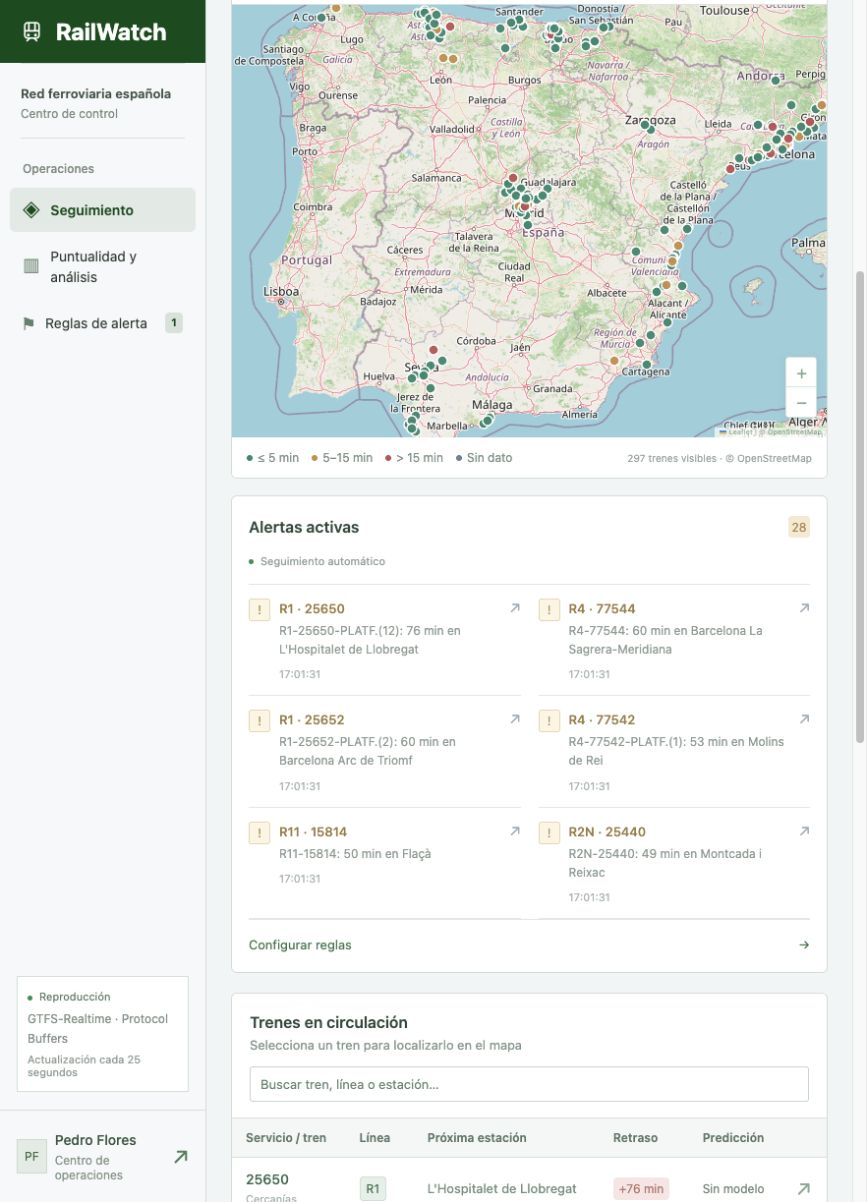
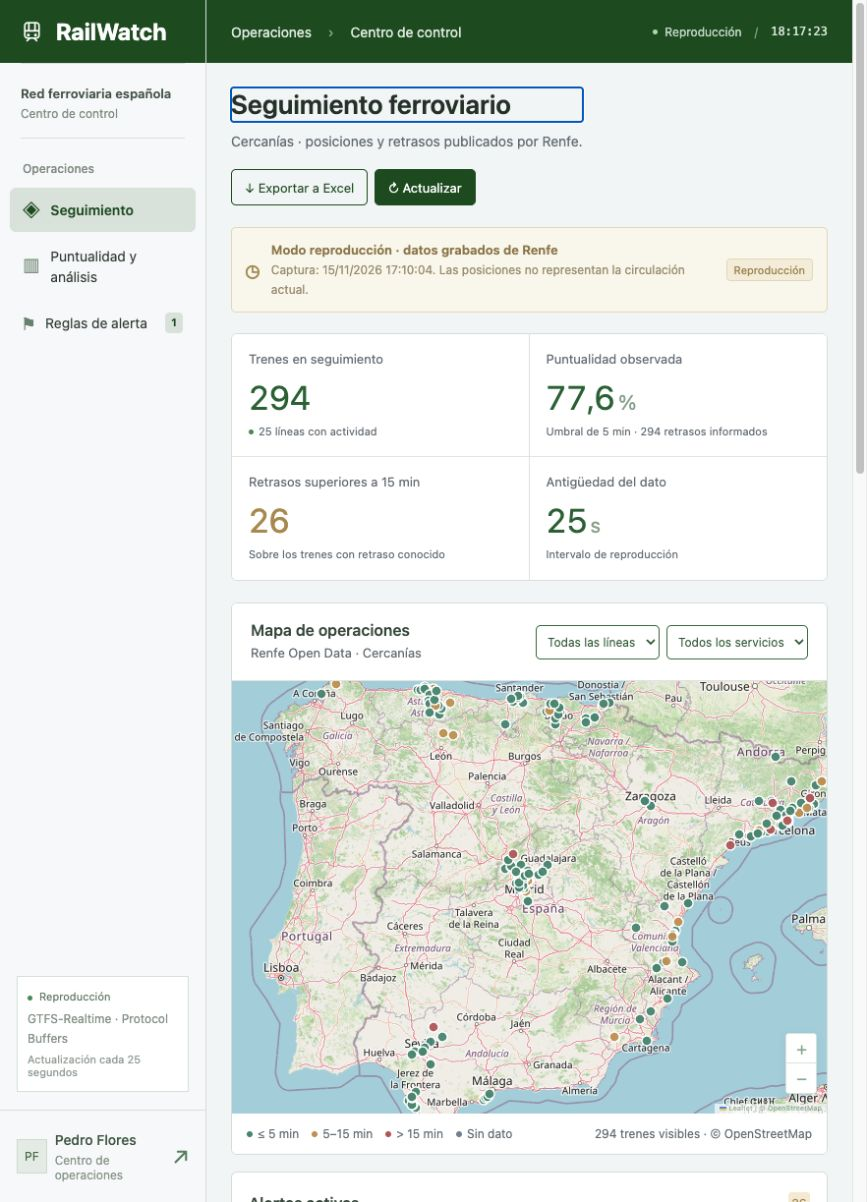
Verificar el gráfico diario, la reconexión y la captura de WPF

diff --git a/src/RailWatch.Desktop.Wpf/MainWindow.xaml b/src/RailWatch.Desktop.Wpf/MainWindow.xaml
@@ -1,17 +1,17 @@
-<Window x:Class="RailWatch.Desktop.Wpf.MainWindow" xmlns="http://schemas.microsoft.com/winfx/2006/xaml/presentation" xmlns:x="http://schemas.microsoft.com/winfx/2006/xaml" Title="RailWatch · Centro de control" Width="1360" Height="850" MinWidth="1050" MinHeight="650" Background="#F4F7F9" FontFamily="Segoe UI" Foreground="#294357" WindowStartupLocation="CenterScreen">
+<Window x:Class="RailWatch.Desktop.Wpf.MainWindow" xmlns="http://schemas.microsoft.com/winfx/2006/xaml/presentation" xmlns:x="http://schemas.microsoft.com/winfx/2006/xaml" Title="RailWatch · Centro de control" Width="1360" Height="850" MinWidth="1050" MinHeight="650" Background="#F4F7F9" FontFamily="Segoe UI" FontSize="14" Foreground="#294357" WindowStartupLocation="CenterScreen">
     <Grid><Grid.ColumnDefinitions><ColumnDefinition Width="225"/><ColumnDefinition Width="*"/></Grid.ColumnDefinitions>
-        <Border Background="#17541F"><DockPanel Margin="23,30"><StackPanel DockPanel.Dock="Top"><TextBlock Text="≋ RailWatch" FontFamily="Segoe UI" FontSize="26" Foreground="White"/><TextBlock Text="Control ferroviario" Foreground="#91A7B8" FontSize="9" Margin="4,10,0,40"/><TextBlock Text="Centro de control" FontSize="9" Foreground="#BCA275"/><TextBlock Text="Red ferroviaria española" Foreground="#D3DFE8" FontSize="13" Margin="0,12,0,7"/><TextBlock Text="Seguimiento de operaciones" Foreground="#819CAE" FontSize="11"/></StackPanel><StackPanel VerticalAlignment="Bottom"><TextBlock Text="Pedro Flores" Foreground="White" FontSize="12"/><TextBlock Text="C# / .NET · WPF / MVVM" Foreground="#7C98AC" FontSize="10" Margin="0,7,0,0"/></StackPanel></DockPanel></Border>
+        <Border Background="#17541F"><DockPanel Margin="23,30"><StackPanel DockPanel.Dock="Top"><TextBlock Text="≋ RailWatch" FontFamily="Segoe UI" FontSize="26" Foreground="White"/><TextBlock Text="Control ferroviario" Foreground="#91A7B8" FontSize="11" Margin="4,10,0,40"/><TextBlock Text="Centro de control" FontSize="11" Foreground="#BCA275"/><TextBlock Text="Red ferroviaria española" Foreground="#D3DFE8" FontSize="13" Margin="0,12,0,7"/><TextBlock Text="Seguimiento de operaciones" Foreground="#819CAE" FontSize="13"/></StackPanel><StackPanel VerticalAlignment="Bottom"><TextBlock Text="Pedro Flores" Foreground="White" FontSize="12"/><TextBlock Text="C# / .NET · WPF / MVVM" Foreground="#7C98AC" FontSize="12" Margin="0,7,0,0"/></StackPanel></DockPanel></Border>
         <Grid Grid.Column="1" Margin="30,25"><Grid.RowDefinitions><RowDefinition Height="Auto"/><RowDefinition Height="Auto"/><RowDefinition Height="*"/><RowDefinition Height="Auto"/></Grid.RowDefinitions>
-            <Grid><Grid.ColumnDefinitions><ColumnDefinition/><ColumnDefinition Width="Auto"/></Grid.ColumnDefinitions><StackPanel><TextBlock Text="Red de Cercanías" Foreground="#AA9169" FontSize="10"/><TextBlock Text="Centro de control ferroviario" FontFamily="Segoe UI" FontSize="26" Margin="0,13,0,10"/><TextBlock Text="{Binding Status}" FontSize="11" Foreground="#8B9EAD"/></StackPanel><Button Grid.Column="1" Content="Exportar a Excel" VerticalAlignment="Center" Click="Export_Click"/></Grid>
+            <Grid><Grid.ColumnDefinitions><ColumnDefinition/><ColumnDefinition Width="Auto"/></Grid.ColumnDefinitions><StackPanel><TextBlock Text="Red de Cercanías" Foreground="#AA9169" FontSize="12"/><TextBlock Text="Centro de control ferroviario" FontFamily="Segoe UI" FontSize="26" Margin="0,13,0,10"/><TextBlock Text="{Binding Status}" FontSize="13" Foreground="#8B9EAD"/></StackPanel><Button Grid.Column="1" Content="Exportar a Excel" VerticalAlignment="Center" Click="Export_Click"/></Grid>
             <Grid Grid.Row="1" Margin="0,25,0,25"><Grid.ColumnDefinitions><ColumnDefinition/><ColumnDefinition/><ColumnDefinition/></Grid.ColumnDefinitions>
-                <Border Background="White" BorderBrush="#DFE7ED" BorderThickness="1" Padding="20" Margin="0,0,15,0"><StackPanel><TextBlock Text="Trenes en seguimiento" FontSize="11" Foreground="#94A5B3"/><TextBlock Text="{Binding TrainCount}" FontSize="35" Margin="0,10,0,0"/></StackPanel></Border>
-                <Border Grid.Column="1" Background="White" BorderBrush="#DFE7ED" BorderThickness="1" Padding="20" Margin="0,0,15,0"><StackPanel><TextBlock Text="Puntualidad observada (≤ 5 min)" FontSize="11" Foreground="#94A5B3"/><TextBlock Text="{Binding Punctuality, TargetNullValue=Sin datos, StringFormat={}{0:0.0}%}" FontSize="35" Margin="0,10,0,0" Foreground="#618D78"/></StackPanel></Border>
-                <Border Grid.Column="2" Background="White" BorderBrush="#DFE7ED" BorderThickness="1" Padding="20"><StackPanel><TextBlock Text="Alertas de retraso" FontSize="11" Foreground="#94A5B3"/><TextBlock Text="{Binding Alerts.Count}" FontSize="35" Margin="0,10,0,0" Foreground="#B49762"/></StackPanel></Border>
+                <Border Background="White" BorderBrush="#DFE7ED" BorderThickness="1" Padding="20" Margin="0,0,15,0"><StackPanel><TextBlock Text="Trenes en seguimiento" FontSize="13" Foreground="#94A5B3"/><TextBlock Text="{Binding TrainCount}" FontSize="35" Margin="0,10,0,0"/></StackPanel></Border>
+                <Border Grid.Column="1" Background="White" BorderBrush="#DFE7ED" BorderThickness="1" Padding="20" Margin="0,0,15,0"><StackPanel><TextBlock Text="Puntualidad observada (≤ 5 min)" FontSize="13" Foreground="#94A5B3"/><TextBlock Text="{Binding Punctuality, TargetNullValue=Sin datos, StringFormat={}{0:0.0}%}" FontSize="35" Margin="0,10,0,0" Foreground="#618D78"/></StackPanel></Border>
+                <Border Grid.Column="2" Background="White" BorderBrush="#DFE7ED" BorderThickness="1" Padding="20"><StackPanel><TextBlock Text="Alertas de retraso" FontSize="13" Foreground="#94A5B3"/><TextBlock Text="{Binding Alerts.Count}" FontSize="35" Margin="0,10,0,0" Foreground="#B49762"/></StackPanel></Border>
             </Grid>
-            <Grid Grid.Row="2"><Grid.ColumnDefinitions><ColumnDefinition Width="3*"/><ColumnDefinition Width="20"/><ColumnDefinition Width="1.25*"/></Grid.ColumnDefinitions><Grid><Grid.RowDefinitions><RowDefinition Height="Auto"/><RowDefinition Height="*"/><RowDefinition Height="Auto"/></Grid.RowDefinitions><DockPanel Margin="0,0,0,15"><TextBlock Text="Trenes en circulación" FontSize="17" VerticalAlignment="Center"/><TextBox Text="{Binding Filter, UpdateSourceTrigger=PropertyChanged}" Width="230" Padding="9" HorizontalAlignment="Right" ToolTip="Buscar tren, línea o estación"/></DockPanel><DataGrid Grid.Row="1" ItemsSource="{Binding Trains}"><DataGrid.Columns><DataGridTextColumn Header="Tren" Binding="{Binding Id}" Width="80"/><DataGridTextColumn Header="Línea" Binding="{Binding Line}" Width="65"/><DataGridTextColumn Header="Próxima estación" Binding="{Binding NextStop}" Width="*"/><DataGridTextColumn Header="Retraso (s)" Binding="{Binding DelaySeconds, TargetNullValue=Sin dato}" Width="85"/><DataGridTextColumn Header="Predicción (min)" Binding="{Binding PredictedDelayMinutes, StringFormat=0.0, TargetNullValue=Sin modelo}" Width="105"/></DataGrid.Columns></DataGrid><TextBlock Grid.Row="2" Text="Sin dato indica que el proveedor no informa del retraso. Replay identifica una grabación, no circulación actual." Foreground="#96A8B6" FontSize="10" TextWrapping="Wrap" Margin="0,12,0,0"/></Grid>
-                <Grid Grid.Column="2"><Grid.RowDefinitions><RowDefinition Height="Auto"/><RowDefinition Height="*"/><RowDefinition Height="Auto"/></Grid.RowDefinitions><DockPanel Margin="0,0,0,15"><TextBlock Text="Alertas en directo" FontSize="17"/><CheckBox Content="Sonido" IsChecked="{Binding SoundEnabled}" HorizontalAlignment="Right" VerticalAlignment="Center" FontSize="10"/></DockPanel><ListBox Grid.Row="1" ItemsSource="{Binding Alerts}" BorderBrush="#DFE7ED" Background="White" ScrollViewer.HorizontalScrollBarVisibility="Disabled"><ListBox.ItemTemplate><DataTemplate><Border BorderBrush="#EDF1F3" BorderThickness="0,0,0,1" Padding="10,14"><StackPanel><TextBlock Text="{Binding Line}" Foreground="#B69661" FontWeight="SemiBold"/><TextBlock Text="{Binding Message}" FontSize="11" TextWrapping="Wrap" Margin="0,7,0,0"/><TextBlock Text="{Binding At, StringFormat=HH:mm:ss}" FontSize="9" Foreground="#A6B5BF" Margin="0,7,0,0"/></StackPanel></Border></DataTemplate></ListBox.ItemTemplate></ListBox><StackPanel Grid.Row="2" Margin="0,20,0,0"><TextBlock Text="Puntualidad por línea" FontSize="14" Margin="0,0,0,10"/><ItemsControl ItemsSource="{Binding Lines}"><ItemsControl.ItemTemplate><DataTemplate><Grid Margin="0,4"><Grid.ColumnDefinitions><ColumnDefinition Width="45"/><ColumnDefinition/><ColumnDefinition Width="50"/></Grid.ColumnDefinitions><TextBlock Text="{Binding Line}" FontSize="10"/><ProgressBar Grid.Column="1" Value="{Binding Punctuality}" Maximum="100" Height="7" Foreground="#78A28C" Background="#E7EDF1"/><TextBlock Grid.Column="2" Text="{Binding Punctuality, StringFormat={}{0:0}%}" HorizontalAlignment="Right" FontSize="10"/></Grid></DataTemplate></ItemsControl.ItemTemplate></ItemsControl></StackPanel></Grid>
+            <Grid Grid.Row="2"><Grid.ColumnDefinitions><ColumnDefinition Width="3*"/><ColumnDefinition Width="20"/><ColumnDefinition Width="1.25*"/></Grid.ColumnDefinitions><Grid><Grid.RowDefinitions><RowDefinition Height="Auto"/><RowDefinition Height="*"/><RowDefinition Height="Auto"/></Grid.RowDefinitions><DockPanel Margin="0,0,0,15"><TextBlock Text="Trenes en circulación" FontSize="17" VerticalAlignment="Center"/><TextBox Text="{Binding Filter, UpdateSourceTrigger=PropertyChanged}" Width="230" Padding="9" HorizontalAlignment="Right" ToolTip="Buscar tren, línea o estación"/></DockPanel><DataGrid Grid.Row="1" ItemsSource="{Binding Trains}"><DataGrid.Columns><DataGridTextColumn Header="Tren" Binding="{Binding Id}" Width="80"/><DataGridTextColumn Header="Línea" Binding="{Binding Line}" Width="65"/><DataGridTextColumn Header="Próxima estación" Binding="{Binding NextStop}" Width="*"/><DataGridTextColumn Header="Retraso (s)" Binding="{Binding DelaySeconds, TargetNullValue=Sin dato}" Width="85"/><DataGridTextColumn Header="Predicción (min)" Binding="{Binding PredictedDelayMinutes, StringFormat=0.0, TargetNullValue=Sin modelo}" Width="105"/></DataGrid.Columns></DataGrid><TextBlock Grid.Row="2" Text="Sin dato indica que el proveedor no informa del retraso. Replay identifica una grabación, no circulación actual." Foreground="#96A8B6" FontSize="12" TextWrapping="Wrap" Margin="0,12,0,0"/></Grid>
+                <Grid Grid.Column="2"><Grid.RowDefinitions><RowDefinition Height="Auto"/><RowDefinition Height="*"/><RowDefinition Height="Auto"/></Grid.RowDefinitions><DockPanel Margin="0,0,0,15"><TextBlock Text="Alertas en directo" FontSize="17"/><CheckBox Content="Sonido" IsChecked="{Binding SoundEnabled}" HorizontalAlignment="Right" VerticalAlignment="Center" FontSize="12"/></DockPanel><ListBox Grid.Row="1" ItemsSource="{Binding Alerts}" BorderBrush="#DFE7ED" Background="White" ScrollViewer.HorizontalScrollBarVisibility="Disabled"><ListBox.ItemTemplate><DataTemplate><Border BorderBrush="#EDF1F3" BorderThickness="0,0,0,1" Padding="10,14"><StackPanel><TextBlock Text="{Binding Line}" Foreground="#B69661" FontWeight="SemiBold"/><TextBlock Text="{Binding Message}" FontSize="13" TextWrapping="Wrap" Margin="0,7,0,0"/><TextBlock Text="{Binding At, StringFormat=HH:mm:ss}" FontSize="11" Foreground="#A6B5BF" Margin="0,7,0,0"/></StackPanel></Border></DataTemplate></ListBox.ItemTemplate></ListBox><StackPanel Grid.Row="2" Margin="0,20,0,0"><TextBlock Text="Puntualidad del día · seis líneas" FontSize="14" Margin="0,0,0,10"/><ItemsControl ItemsSource="{Binding Lines}"><ItemsControl.ItemTemplate><DataTemplate><Grid Margin="0,4"><Grid.ColumnDefinitions><ColumnDefinition Width="45"/><ColumnDefinition/><ColumnDefinition Width="50"/></Grid.ColumnDefinitions><TextBlock Text="{Binding Line}" FontSize="12"/><ProgressBar Grid.Column="1" Value="{Binding Punctuality}" Maximum="100" Height="7" Foreground="#78A28C" Background="#E7EDF1"/><TextBlock Grid.Column="2" Text="{Binding Punctuality, StringFormat={}{0:0}%}" HorizontalAlignment="Right" FontSize="12"/></Grid></DataTemplate></ItemsControl.ItemTemplate></ItemsControl></StackPanel></Grid>
             </Grid>
-            <TextBlock Grid.Row="3" Text="Datos: Renfe Open Data · CC BY 4.0 / RailWatch · Centro de operaciones" Foreground="#A4B2BD" FontSize="10" Margin="0,25,0,0"/>
+            <TextBlock Grid.Row="3" Text="Datos: Renfe Open Data · CC BY 4.0 / RailWatch · Centro de operaciones" Foreground="#A4B2BD" FontSize="12" Margin="0,25,0,0"/>
         </Grid>
     </Grid>
 </Window>

diff --git a/src/RailWatch.Api/wwwroot/railwatch.css b/src/RailWatch.Api/wwwroot/railwatch.css
@@ -2258,3 +2258,9 @@ td,
 th {
   color: #495057;
 }
+
+h1:focus { outline: none; }
+
+.alerts-panel { max-height: 590px; overflow-y: auto; }
+.alerts-panel > .section-top, .alerts-subtitle, .alert-card, .rules-link { flex-shrink: 0; }
+@media (max-width: 1000px) { .alerts-panel { max-height: none; overflow-y: visible; } }

diff --git a/src/RailWatch.Desktop.Wpf/DesktopFeedClient.cs b/src/RailWatch.Desktop.Wpf/DesktopFeedClient.cs
@@ -9,6 +9,7 @@ namespace RailWatch.Desktop.Wpf;
 public sealed class DesktopFeedClient(ControlRoomViewModel model) : IAsyncDisposable
 {
     private HubConnection? connection;
+    private int disposed;
     private readonly HttpClient http = new() { BaseAddress = new Uri(Environment.GetEnvironmentVariable("RAILWATCH_URL") ?? "http://localhost:5090") };
     public async Task ConnectAsync()
     {
@@ -23,8 +24,19 @@ public sealed class DesktopFeedClient(ControlRoomViewModel model) : IAsyncDispos
     }
     private async Task ReloadAsync()
     {
-        var s = await http.GetFromJsonAsync<FeedSnapshot>("/api/snapshot"); if (s is not null) model.Apply(s);
-        var lines = await http.GetFromJsonAsync<LineStats[]>("/api/statistics/lines"); model.Lines.Clear(); foreach (var l in lines ?? []) model.Lines.Add(l);
+        var snapshot = await http.GetFromJsonAsync<FeedSnapshot>("/api/snapshot");
+        if (snapshot is null) return;
+        var date = DateOnly.FromDateTime(TimeZoneInfo.ConvertTime(snapshot.ObservedAt, TimeZoneInfo.FindSystemTimeZoneById("Europe/Madrid")).DateTime);
+        var from = DelayCalculator.ScheduledUtc(date, "00:00:00");
+        var to = DelayCalculator.ScheduledUtc(date.AddDays(1), "00:00:00");
+        var query = "/api/statistics/lines?mode=" + Uri.EscapeDataString(snapshot.Mode) + "&from=" + Uri.EscapeDataString(from.ToString("O")) + "&to=" + Uri.EscapeDataString(to.ToString("O"));
+        var lines = await http.GetFromJsonAsync<LineStats[]>(query);
+        await Application.Current.Dispatcher.InvokeAsync(() =>
+        {
+            model.Apply(snapshot);
+            model.Lines.Clear();
+            foreach (var line in (lines ?? []).OrderBy(x => x.Punctuality).Take(6)) model.Lines.Add(line);
+        });
     }
-    public async ValueTask DisposeAsync() { if (connection is not null) await connection.DisposeAsync(); http.Dispose(); }
+    public async ValueTask DisposeAsync() { if (Interlocked.Exchange(ref disposed, 1) != 0) return; if (connection is not null) await connection.DisposeAsync(); http.Dispose(); }
 }

diff --git a/src/RailWatch.Desktop.Wpf/MainWindow.xaml.cs b/src/RailWatch.Desktop.Wpf/MainWindow.xaml.cs
@@ -23,10 +23,10 @@ public partial class MainWindow : Window
         if (dialog.ShowDialog() != true) return;
         try
         {
-            using var book = new XLWorkbook(); var sheet = book.AddWorksheet("Control"); string[] headers = ["Tren", "Línea", "Estación", "Retraso (segundos)", "Fecha del dato UTC", "Predicción (min)"];
+            using var book = new XLWorkbook(); var sheet = book.AddWorksheet("Control"); string[] headers = ["Tren", "Línea", "Estación", "Retraso (segundos)", "Fecha del dato UTC", "Predicción (min)", "Fuente"];
             for (var c = 0; c < headers.Length; c++) sheet.Cell(1, c + 1).Value = headers[c];
-            var row = 2; foreach (var t in model.Trains) { sheet.Cell(row, 1).Value = t.Id; sheet.Cell(row, 2).Value = t.Line; sheet.Cell(row, 3).Value = t.NextStop; if (t.DelaySeconds.HasValue) sheet.Cell(row, 4).Value = t.DelaySeconds.Value; sheet.Cell(row, 5).Value = t.ObservedAt.UtcDateTime; if (t.PredictedDelayMinutes.HasValue) sheet.Cell(row, 6).Value = t.PredictedDelayMinutes.Value; row++; }
-            sheet.Range(1, 1, Math.Max(2, row - 1), 6).CreateTable(); sheet.Columns().AdjustToContents(); sheet.Column(5).Style.DateFormat.Format = "yyyy-mm-dd hh:mm:ss"; book.SaveAs(dialog.FileName);
+            var row = 2; foreach (var t in model.Trains) { sheet.Cell(row, 1).Value = t.Id; sheet.Cell(row, 2).Value = t.Line; sheet.Cell(row, 3).Value = t.NextStop; if (t.DelaySeconds.HasValue) sheet.Cell(row, 4).Value = t.DelaySeconds.Value; sheet.Cell(row, 5).Value = t.ObservedAt.UtcDateTime; if (t.PredictedDelayMinutes.HasValue) sheet.Cell(row, 6).Value = t.PredictedDelayMinutes.Value; sheet.Cell(row, 7).Value = model.SourceMode; row++; }
+            sheet.Range(1, 1, Math.Max(2, row - 1), 7).CreateTable(); sheet.Columns().AdjustToContents(); sheet.Column(5).Style.DateFormat.Format = "yyyy-mm-dd hh:mm:ss"; book.SaveAs(dialog.FileName);
         }
         catch (Exception ex) { MessageBox.Show(this, "No se pudo exportar: " + ex.Message, "RailWatch", MessageBoxButton.OK, MessageBoxImage.Warning); }
     }

diff --git a/src/RailWatch.Desktop.Wpf/App.xaml.cs b/src/RailWatch.Desktop.Wpf/App.xaml.cs
@@ -21,11 +21,12 @@ public partial class App : Application
         if (e.Args.Contains("--smoke-test"))
         {
             var model = host.Services.GetRequiredService<ControlRoomViewModel>();
-            for (var i = 0; i < 100 && model.TrainCount == 0; i++) await Task.Delay(200);
-            if (model.TrainCount == 0) { Shutdown(1); return; }
+            for (var i = 0; i < 100 && (model.TrainCount == 0 || model.Lines.Count == 0); i++) await Task.Delay(200);
+            if (model.TrainCount == 0 || model.Lines.Count == 0) { Shutdown(1); return; }
             window.UpdateLayout();
-            var bitmap = new RenderTargetBitmap((int)window.ActualWidth, (int)window.ActualHeight, 96, 96, PixelFormats.Pbgra32);
-            bitmap.Render(window);
+            var content = (FrameworkElement)window.Content;
+            var bitmap = new RenderTargetBitmap((int)Math.Ceiling(content.ActualWidth), (int)Math.Ceiling(content.ActualHeight), 96, 96, PixelFormats.Pbgra32);
+            bitmap.Render(content);
             var encoder = new PngBitmapEncoder();
             encoder.Frames.Add(BitmapFrame.Create(bitmap));
             var path = Environment.GetEnvironmentVariable("RAILWATCH_SCREENSHOT") ?? "wpf-smoke.png";
@@ -35,7 +36,12 @@ public partial class App : Application
     }
     protected override async void OnExit(ExitEventArgs e)
     {
-        if (host is not null) { await host.StopAsync(); host.Dispose(); }
+        if (host is not null)
+        {
+            await host.StopAsync();
+            if (host is IAsyncDisposable disposable) await disposable.DisposeAsync();
+            else host.Dispose();
+        }
         base.OnExit(e);
     }
 }

diff --git a/src/RailWatch.Shared/Contracts.cs b/src/RailWatch.Shared/Contracts.cs
@@ -38,12 +38,14 @@ public sealed partial class ControlRoomViewModel : ObservableObject
     public ObservableCollection<TrainPosition> Trains { get; } = [];
     public ObservableCollection<AlertEvent> Alerts { get; } = [];
     public ObservableCollection<LineStats> Lines { get; } = [];
+    public string SourceMode { get; private set; } = "Waiting";
     public event Action? SoundRequested;
     private readonly HashSet<string> alerted = [];
     private FeedSnapshot? last;
     public void Apply(FeedSnapshot snapshot)
     {
         last = snapshot;
+        SourceMode = snapshot.Mode;
         Status = $"{snapshot.Mode} · {snapshot.PublishedAt.ToLocalTime():HH:mm:ss} · {snapshot.Trains.Count} trenes";
         TrainCount = snapshot.Trains.Count;
         var known = snapshot.Trains.Where(x => x.DelaySeconds.HasValue).ToArray();

diff --git a/README.md b/README.md
@@ -43,6 +43,8 @@ Descarga el ZIP para tu arquitectura en [Releases](https://github.com/PedroFlore
 
 El cliente implementa MVVM con CommunityToolkit, inyección de dependencias, reconexión SignalR, filtros, alertas visuales/sonoras, barras de puntualidad por línea y exportación a Excel. El ViewModel se prueba en macOS/Linux; GitHub Actions abre la ventana real en Windows y guarda una captura. Los paquetes MSIX de Releases están **sin firmar**: el ZIP es la descarga ejecutable directamente. La firma de un instalador distribuible requiere un certificado del publicador.
 
+![Cliente WPF ejecutado en Windows](docs/wpf.png)
+
 ## Arquitectura
 
 ```mermaid
